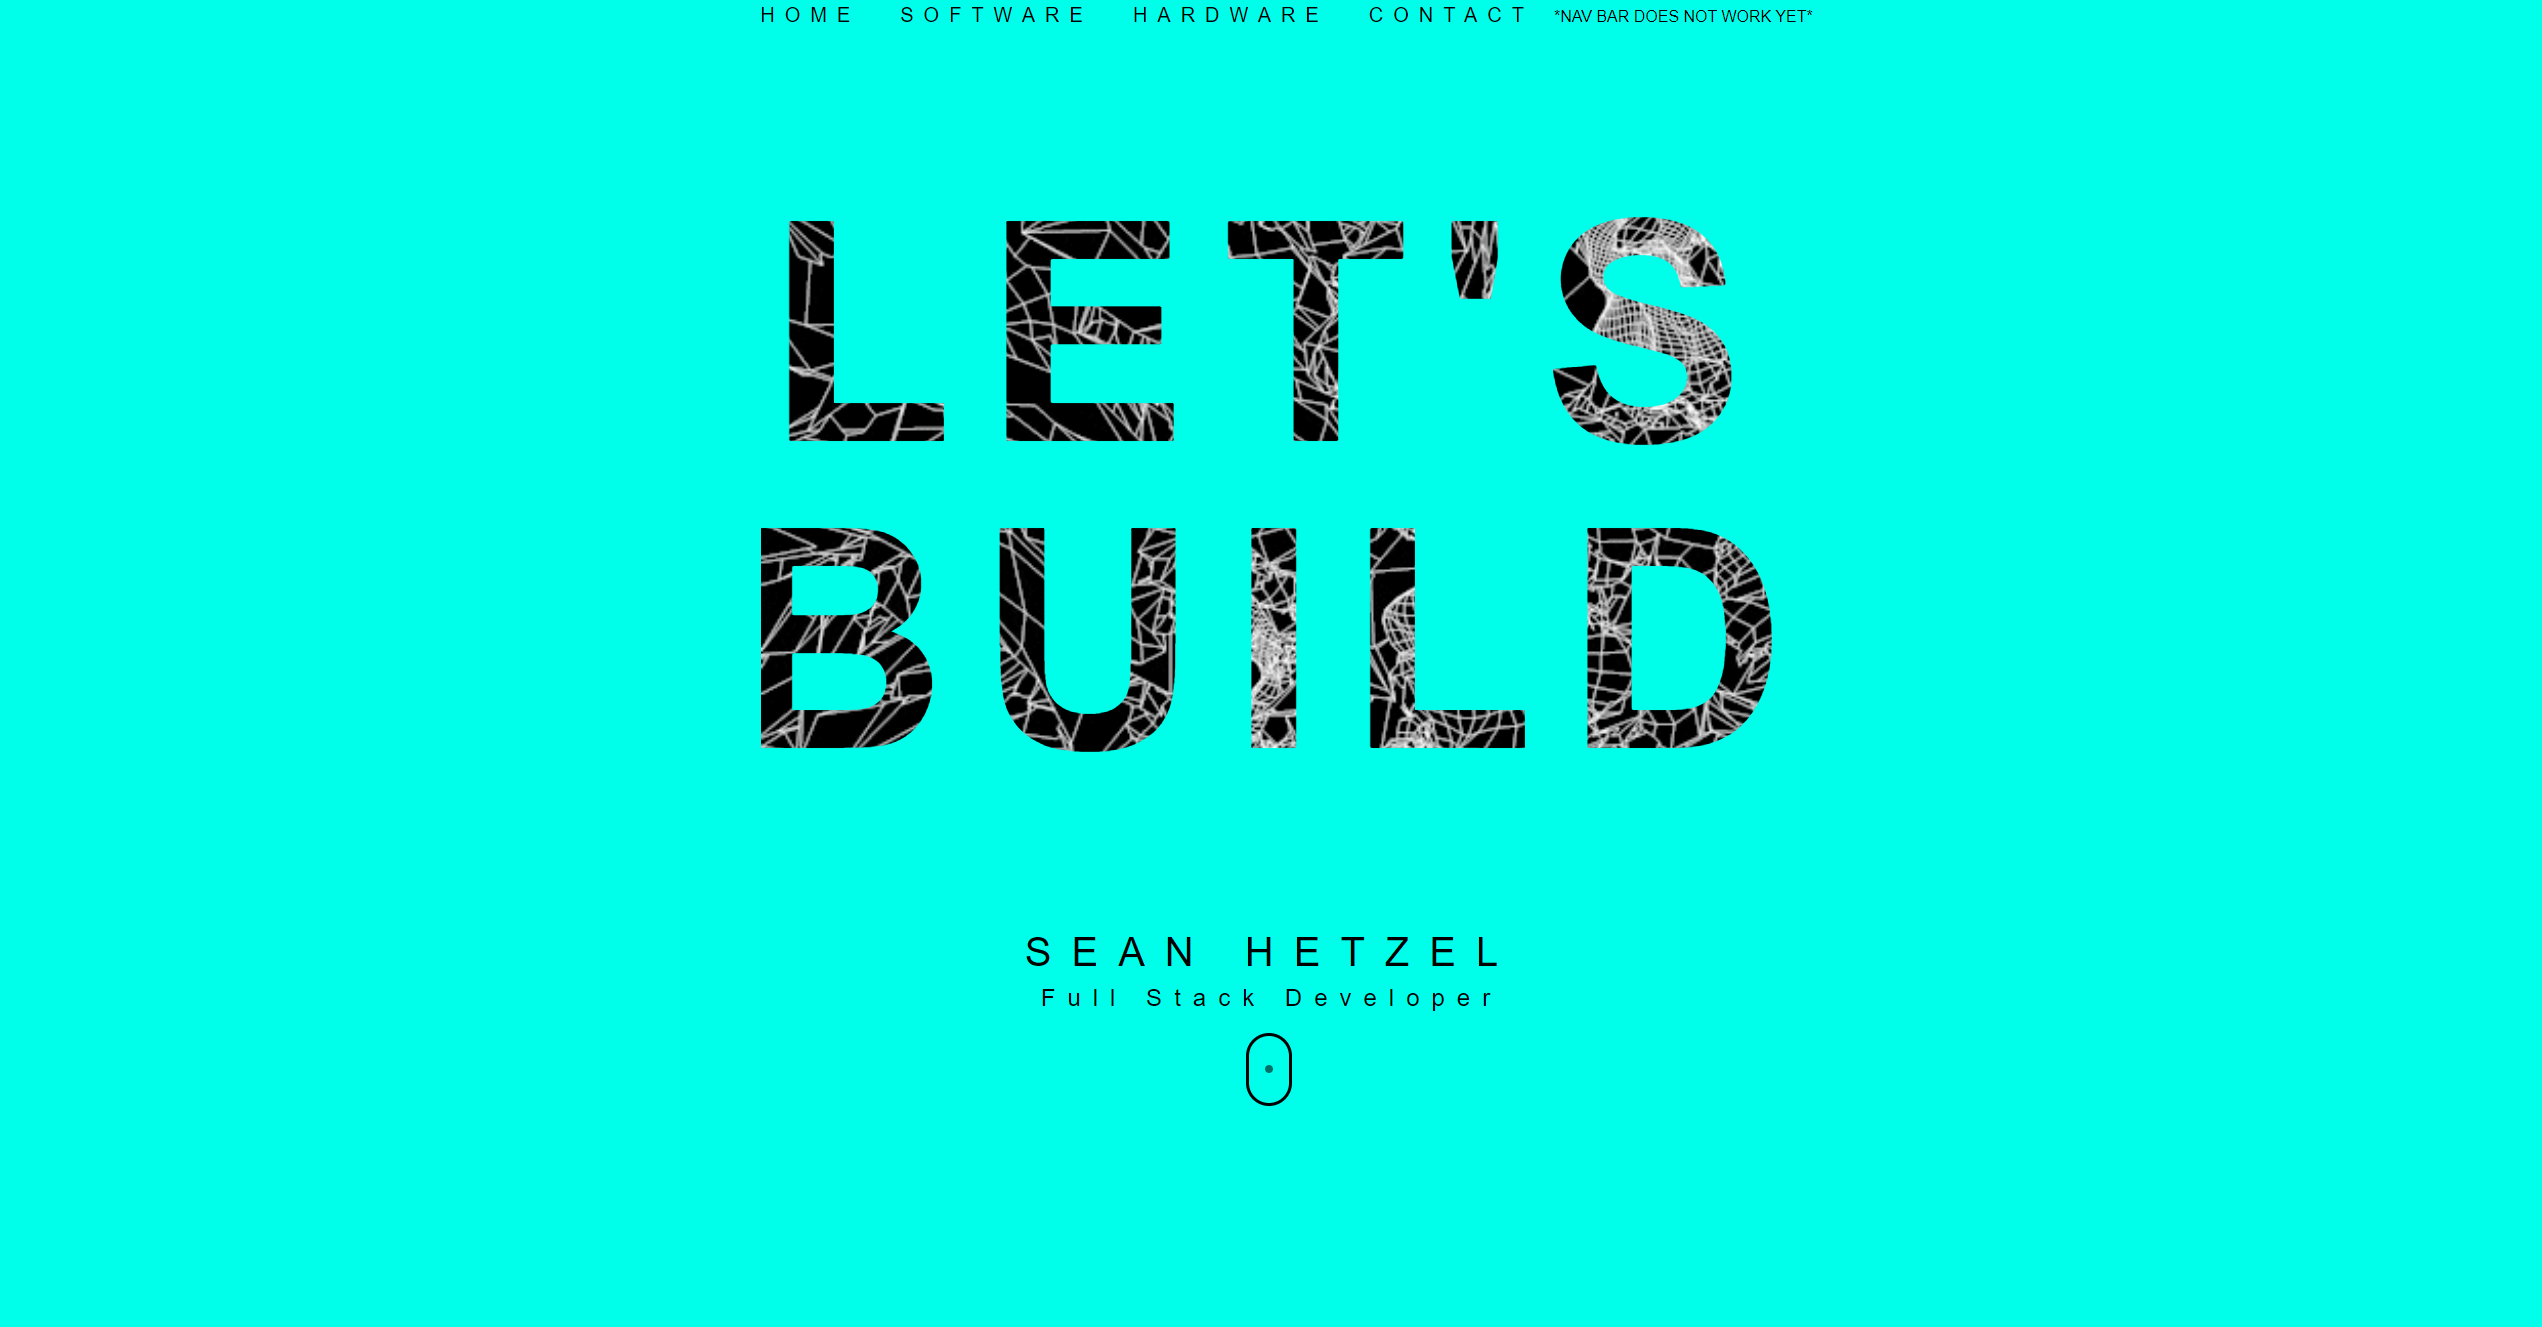
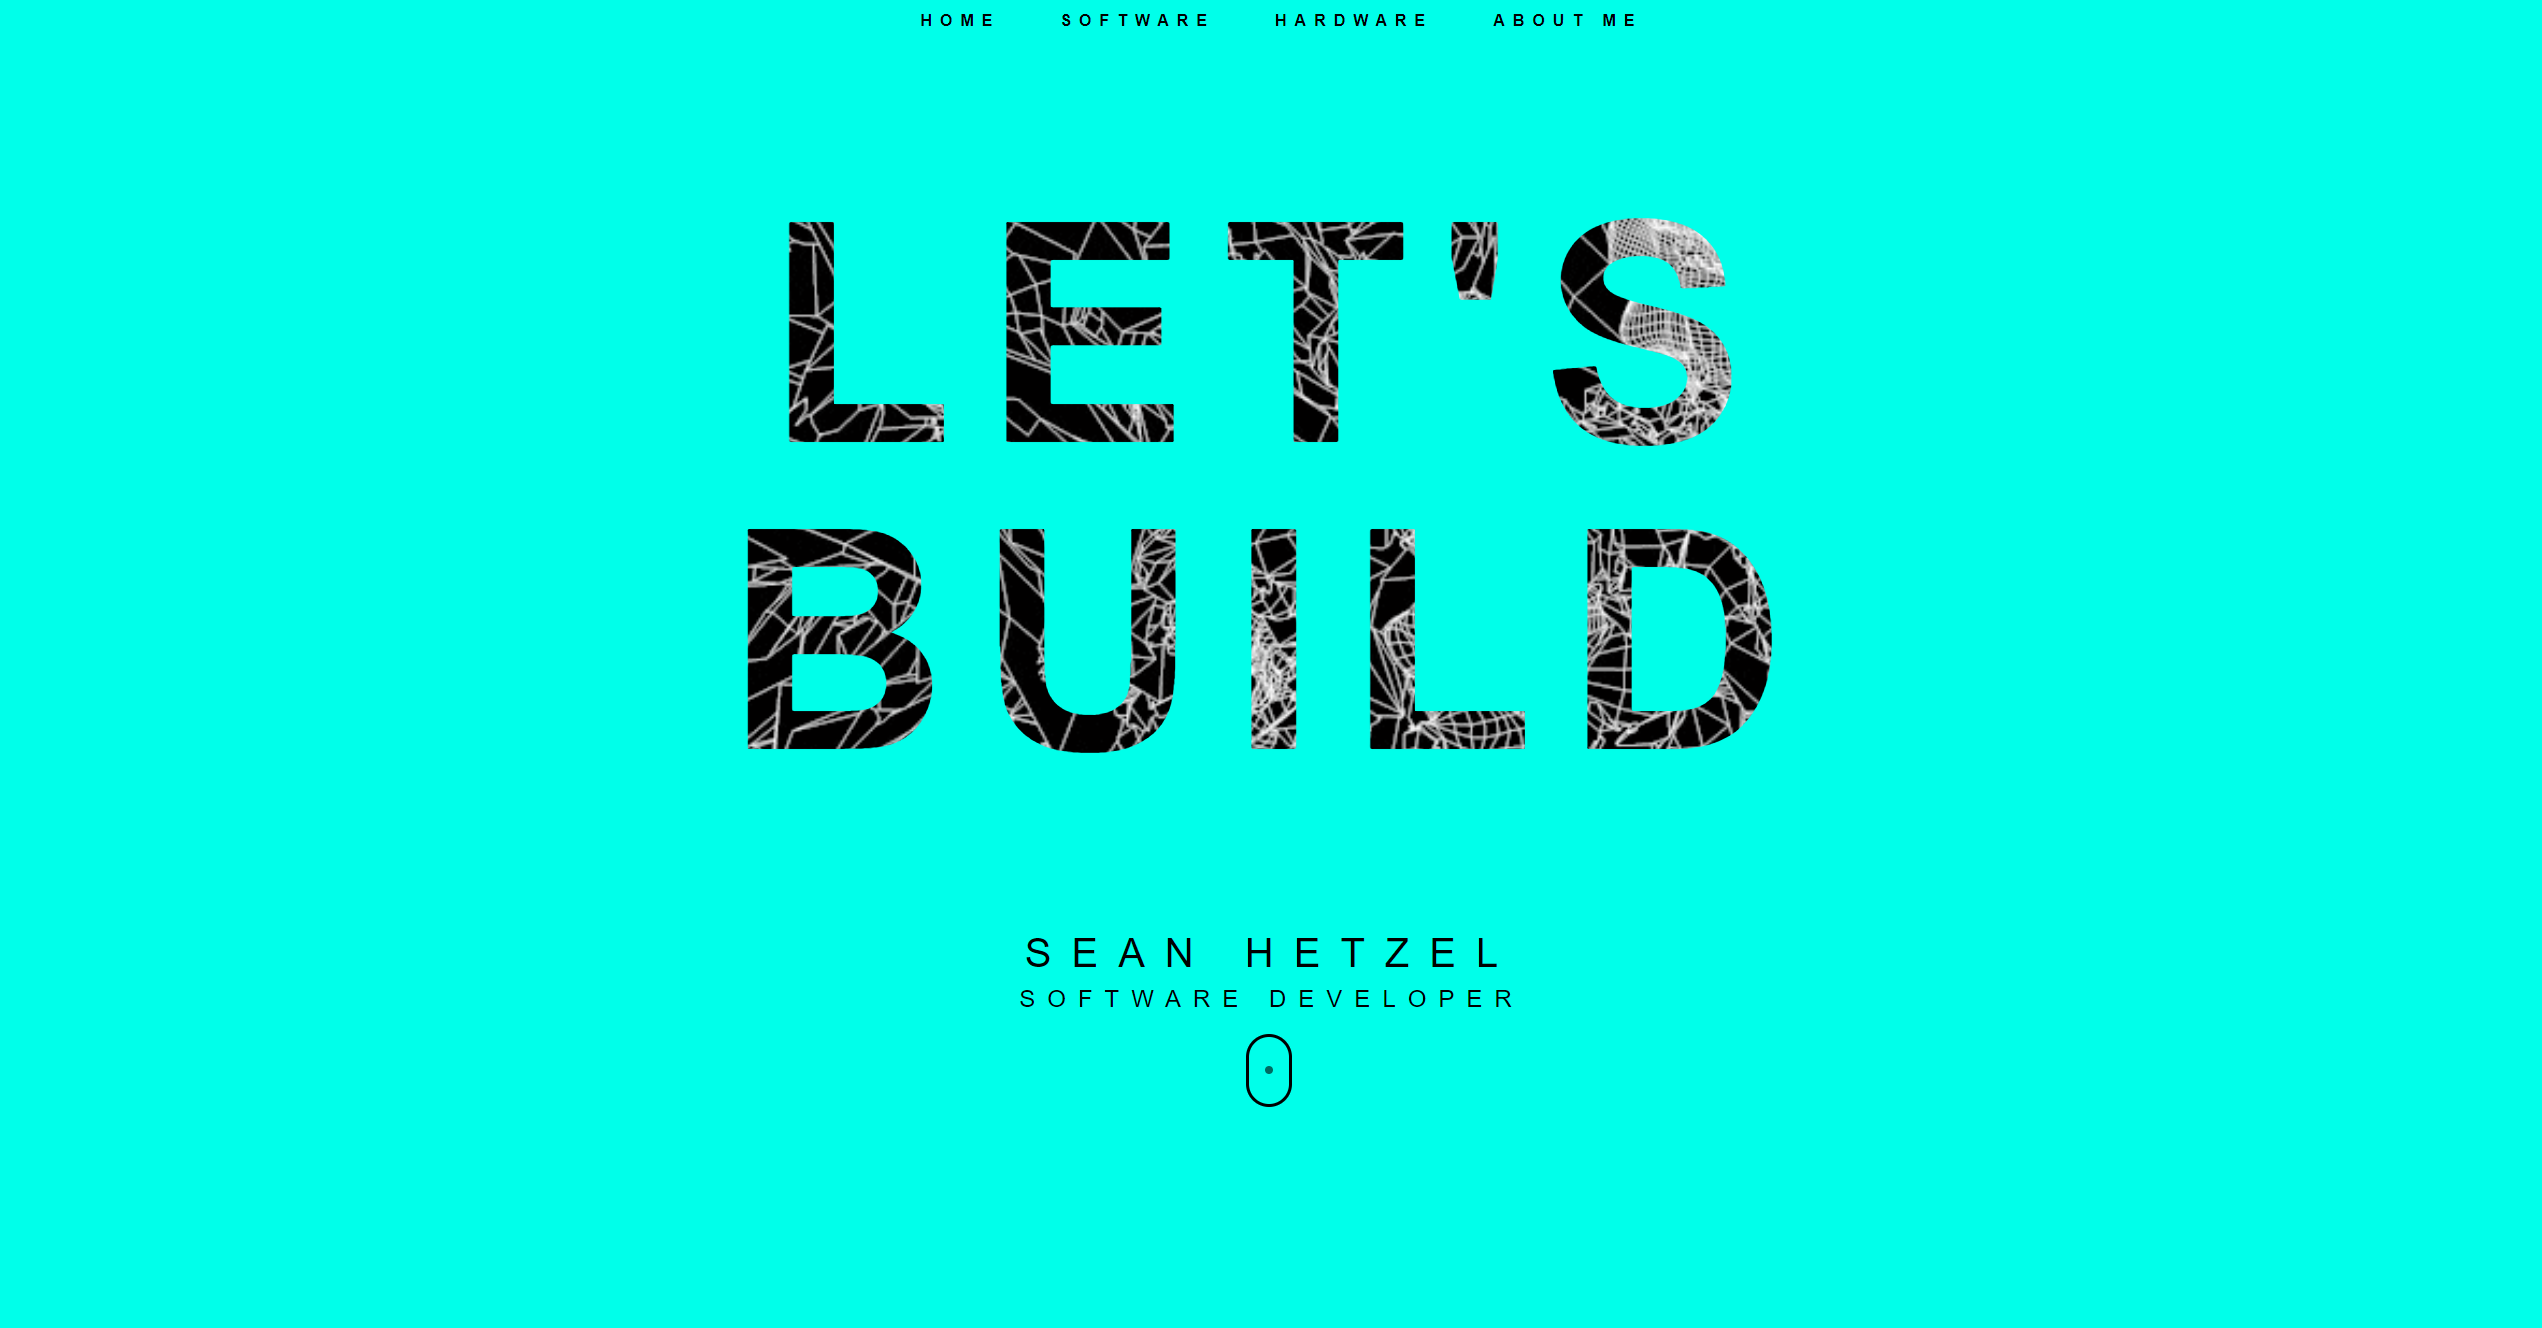
renamed connect to about me and changed preview image

diff --git a/src/App.js b/src/App.js
@@ -6,7 +6,7 @@ import NavBar from "./components/NavBar";
 import LandingPage from "./components/LandingPage";
 import SoftwareProjects from "./components/SoftwareProjects";
 import HardwareProjects from "./components/HardwareProjects";
-import Connect from "./components/Connect";
+import About from "./components/About";
 
 class App extends Component {
   render() {
@@ -19,7 +19,7 @@ class App extends Component {
         <LandingPage />
         <SoftwareProjects />
         <HardwareProjects />
-        <Connect />
+        <About />
       </>
     );
   }

diff --git a/src/components/About.js b/src/components/About.js
@@ -6,7 +6,7 @@ import resume from "../images/sean-hetzel-resume.pdf";
 export default function Connect() {
   return (
     <div id="connect">
-      <ScrollableAnchor id={"contact"}>
+      <ScrollableAnchor id={"about"}>
         <h1 className="page-title centered">About Me</h1>
       </ScrollableAnchor>
       <p className="grey-text">

diff --git a/src/components/NavBar.js b/src/components/NavBar.js
@@ -12,8 +12,8 @@ export default function NavBar() {
       <a className="title nav-btn" href="#hardware">
         HARDWARE
       </a>
-      <a className="title nav-btn" href="#contact">
-        CONTACT
+      <a className="title nav-btn" href="#about">
+        ABOUT ME
       </a>
     </div>
   );
